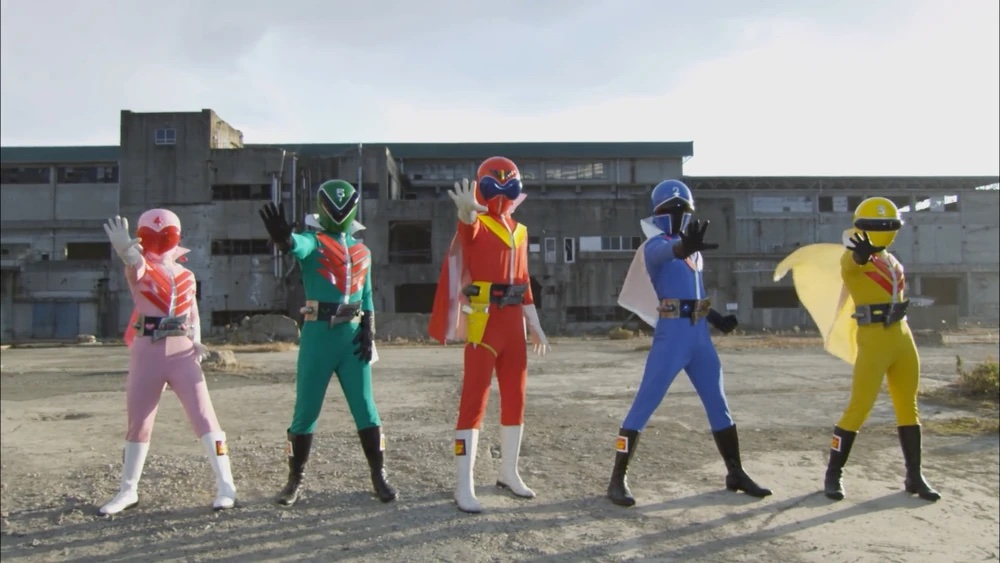
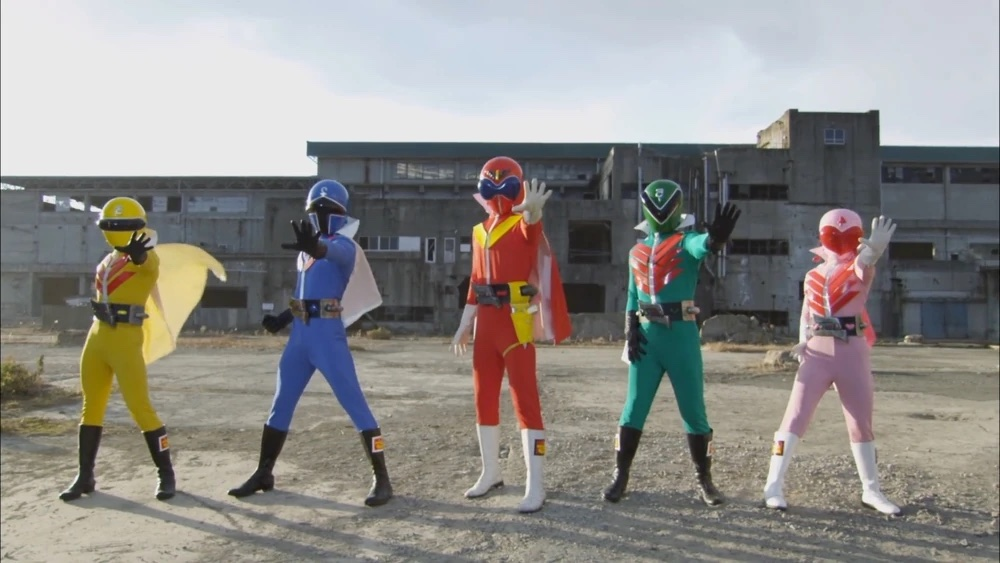
Sophie: Horizontally flipped team images and re-added the images to the '/images" folder. Updated the formatting for the photos on the `team.Rmd` page by adding them to a table.

diff --git a/team.html b/team.html
@@ -380,8 +380,7 @@ happenings. Or neat sceneries to take photos of.</li>
 <a href="https://www.linkedin.com/in/sophiejhzhang/" class="fa fa-linkedin"></a>
 <a href="https://github.com/sophyee" class="fa fa-github"></a></h3>
 <ul>
-<li>Favorite place to walk in NYC: Walking across the Manhattan Bridge
-🌇</li>
+<li>Favorite place to walk in NYC: Across the Manhattan Bridge 🌇</li>
 <li>Favorite part about walking: Listen to good music and enjoy the
 crowds &amp; scenery!</li>
 </ul>
@@ -410,17 +409,34 @@ Ma (she/her)</a>
 <li>Favorite place to walk in NYC: Riverside park</li>
 <li>Favorite part about walking: Enjoy the nature and stay active!</li>
 </ul>
-<p><br /></p>
+<br />
 <center>
-<p><img src="images/group_pic_power.JPG" style="width:30%">
-<img src="images/group_pic_walking.JPG" style="width:30%">
-<img src="images/group_pic_stop.JPG" style="width:30%"></p>
-<p><img src="images/power_ranger_pose1.jpg" style="width:30%">
-<img src="images/power_ranger_logo.jpg" style="width:30%">
-<img src="images/power_ranger_pose2.jpg" style="width:30%"></p>
-<p><strong>Thank you for exploring our project!</strong></p>
+<table style="table-layout: fixed; width: 75%">
 </center>
-<p><br /></p>
+<tr>
+<td>
+<img src="images/group_pic_power.JPG" style="width:100%">
+</td>
+<td>
+<img src="images/group_pic_walking.JPG" style="width:100%">
+</td>
+<td>
+<img src="images/group_pic_stop.JPG" style="width:100%">
+</td>
+</tr>
+<tr>
+<td>
+<img src="images/power_ranger_pose1.jpg" style="width:100%">
+</td>
+<td>
+<img src="images/power_ranger_logo.jpg" style="width:100%">
+</td>
+<td>
+<img src="images/power_ranger_pose2.jpg" style="width:100%">
+</td>
+</tr>
+</table>
+<p></br></p>
 </div>
 
 
